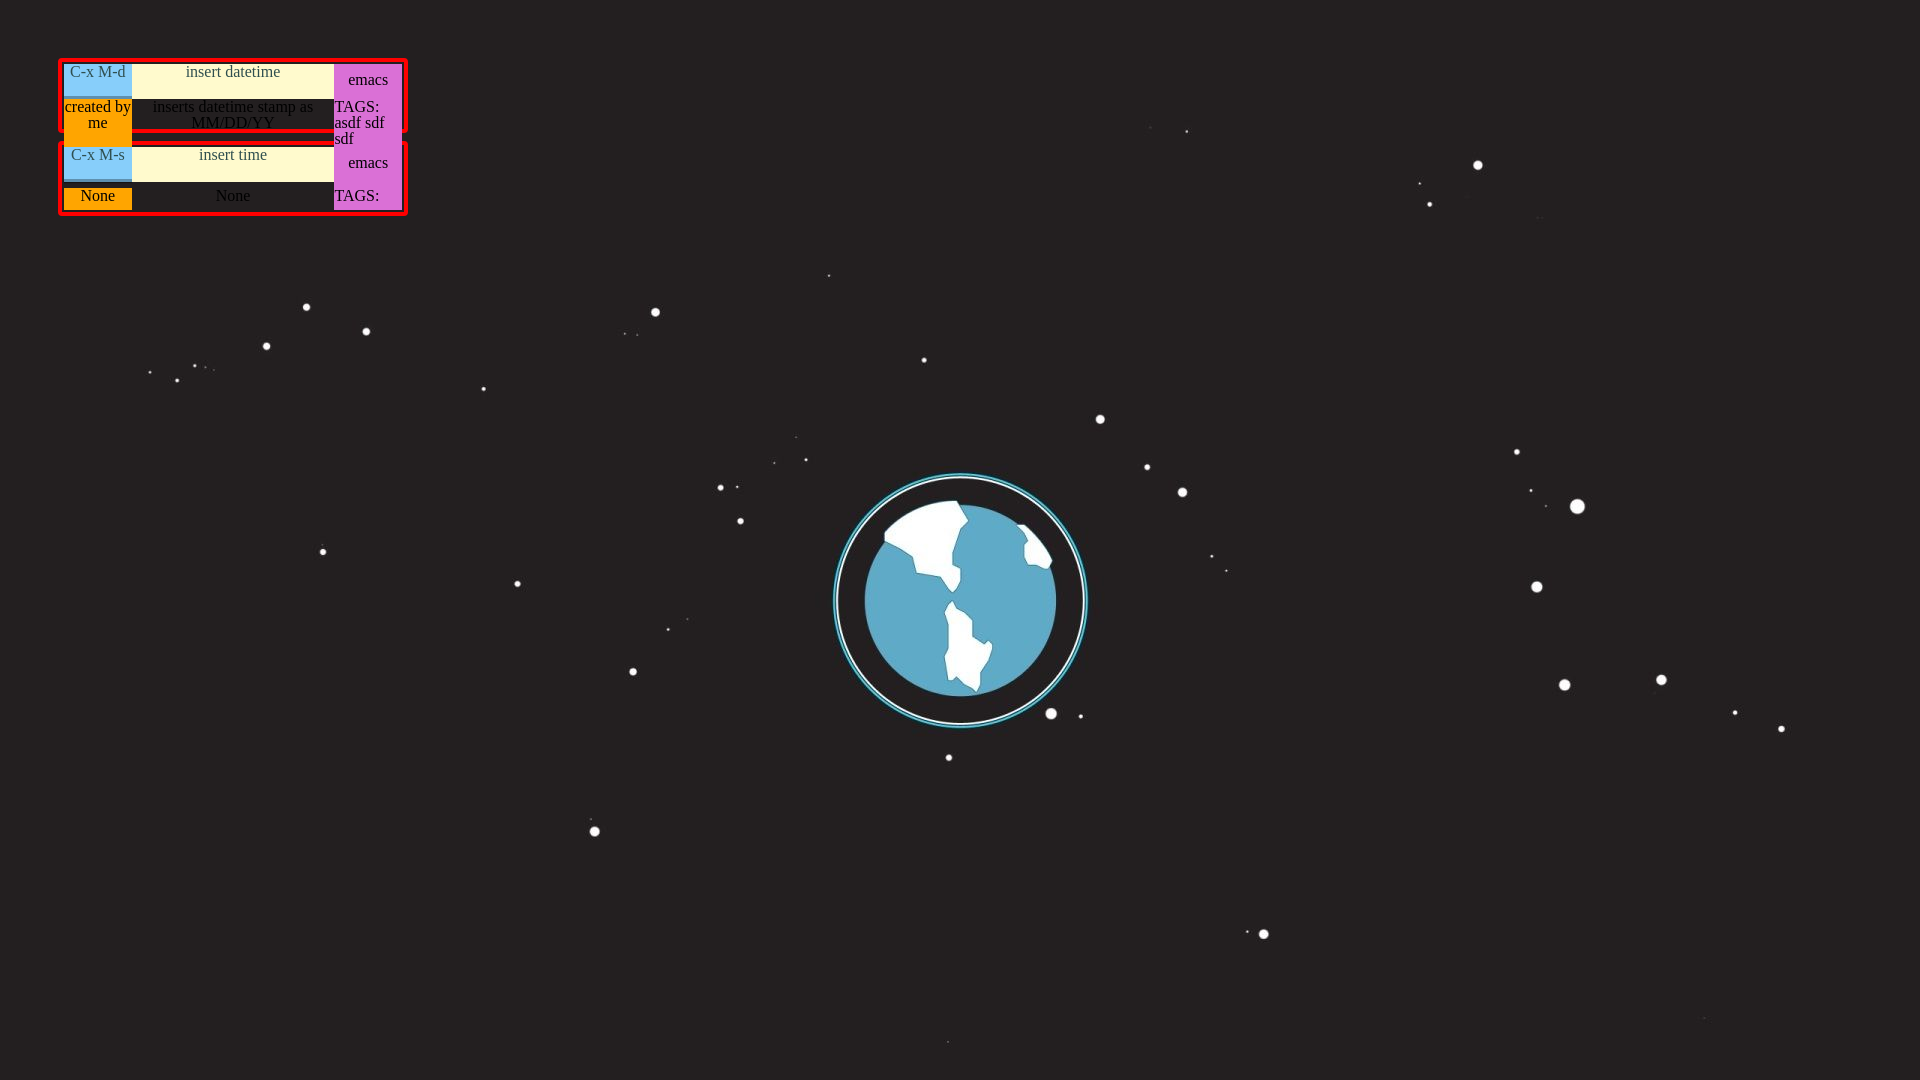
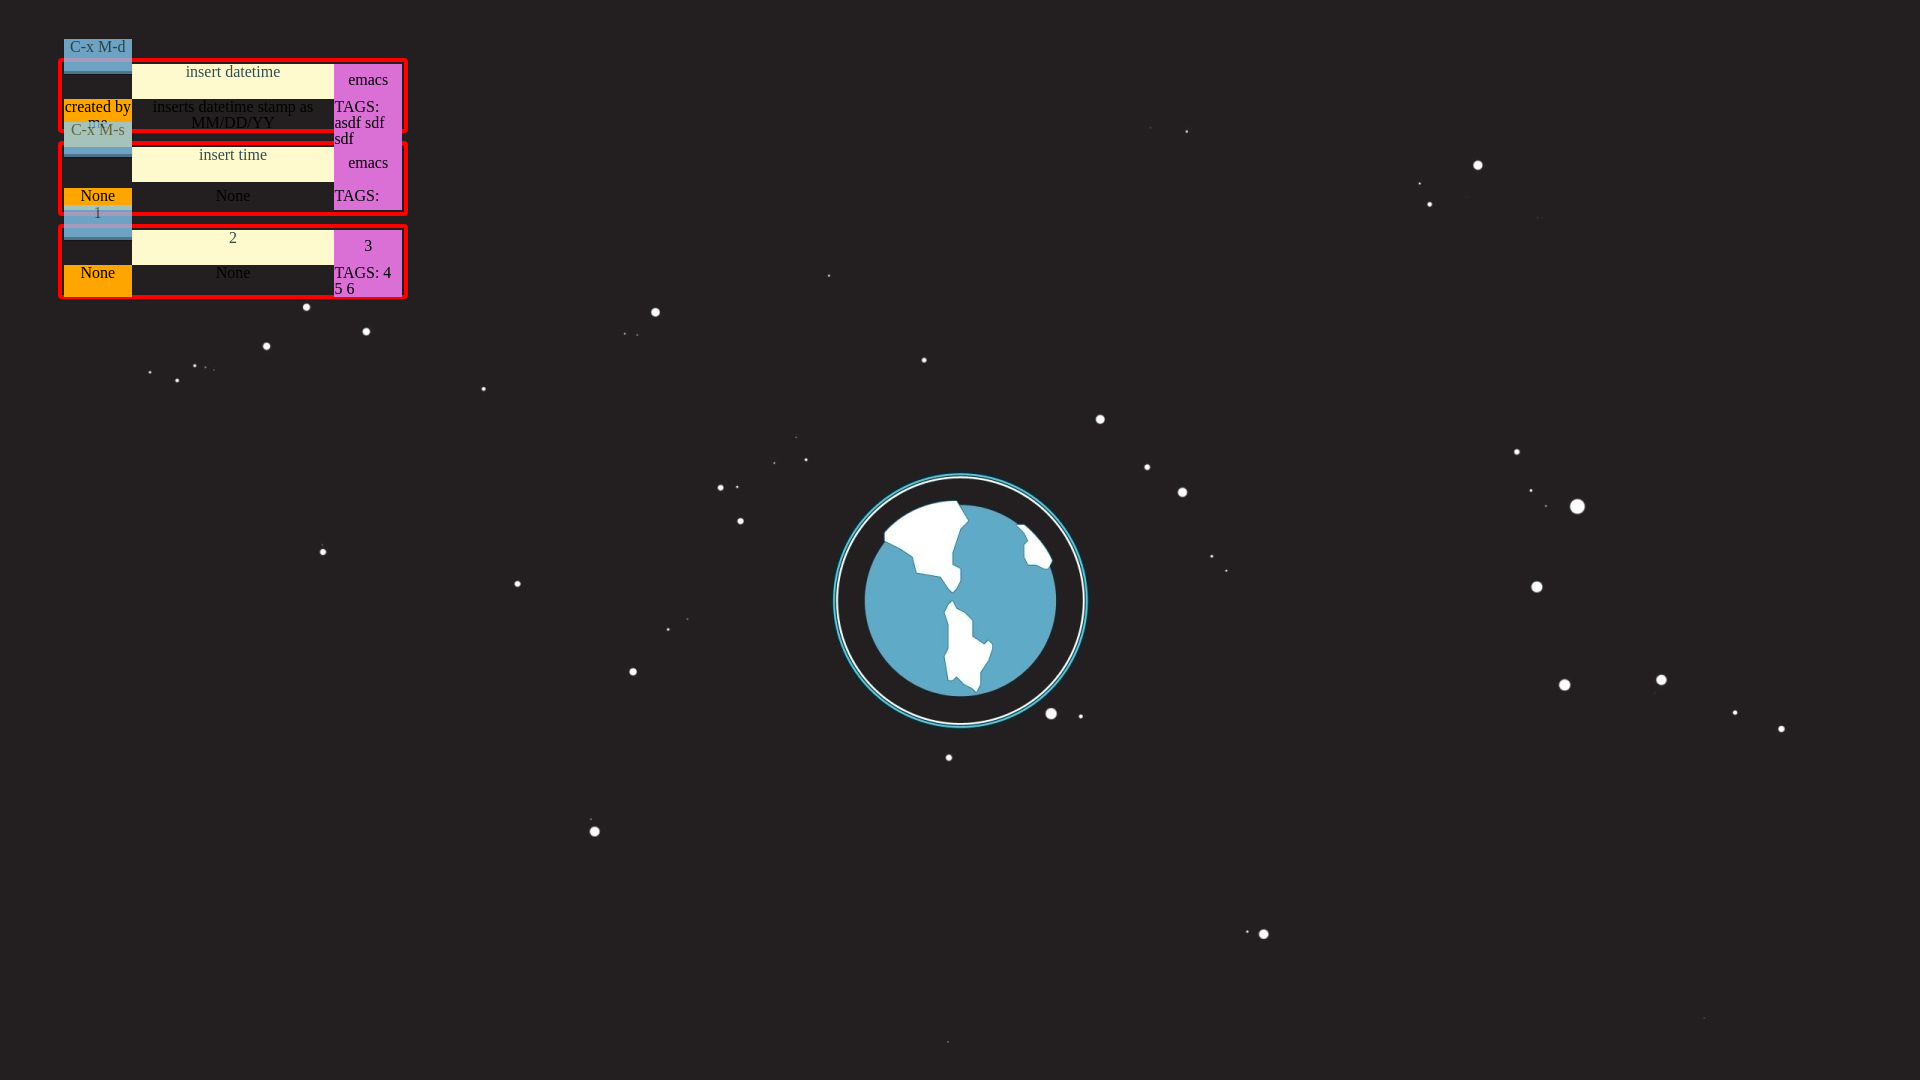
updates to cheet management

Changed region(s): [[0.0312, 0.0306, 0.2188, 0.275]]

diff --git a/cs_final.html b/cs_final.html
@@ -37,6 +37,24 @@
 		</ul>
 	    </div>
 	    
+	    <div class="cheat">
+		<kbd class="cheat-keybind">1</kbd>
+		<p class="cheat-action">2</p>
+		<p class="cheat-context">3</p>
+		<p class="cheat-note">None</p>
+		<p class="cheat-desc">None</p>
+		<ul class="cheat-tag-list">
+		    <li class="cheat-tag-item">TAGS:</li>
+		    
+		    <li class="cheat-tag-item">4</li>
+		    
+		    <li class="cheat-tag-item">5</li>
+		    
+		    <li class="cheat-tag-item">6</li>
+		    
+		</ul>
+	    </div>
+	    
 	</div>
     </body>
 </html>

diff --git a/styles.css b/styles.css
@@ -33,7 +33,11 @@ kbd {
 }
 
 .cheat-keybind {
+    position: relative;
+    top: -25px;
+    left: 0px;
     height: 35px;
+    opacity: .75;
     align-content: center;
     background-color: lightskyblue;
     color: darkslategrey;

diff --git a/cheet.py b/cheet.py
@@ -1,16 +1,7 @@
-"""Cheet
-
- Cheet is a simplified interface for creating cheat sheets
- in a modular fashion.  It is designed to be extensible
- and minimally invasive to your time and attention.
- Cheet.py creates a keybinding and saves it in keybinds.json.
- Other parts of this package use that data to compile
- prettified, sorted, formatted cheat sheets tailored
- to your specific use.
-
-
+"""
 Usage: 
-  python3 cheet.py KEYBIND ACTION CONTEXT [options] [TAGS ...]
+  cheet.py KEYBIND ACTION CONTEXT [-d DESCRIPTION] [-n NOTE] [TAGS ...]
+  cheet.py rm KEYBIND
 
 Arguments:
   KEYBIND     The keybinding to save.
@@ -22,25 +13,49 @@ Options:
   -h --help        Show this screen
   -d DESCRIPTION   Describe what this keybind does, if the action is not descriptive.
   -n NOTE          Notes regarding use, if applicable.
-  -D               Do not compile.  Use this if compiling using non-default settings.
 
+ Cheet is a simplified interface for creating cheat sheets
+ in a modular fashion.  It is designed to be extensible
+ and minimally invasive to your time and attention.
+ Cheet.py creates a keybinding and saves it in keybinds.json.
+ Other parts of this package use that data to compile
+ prettified, sorted, formatted cheat sheets tailored
+ to your specific use.
 
 """ 
 import json
 import docopt
 
-def trim_args(args):
-    del args["--help"]
-    del args["-D"]
-    args["NOTE"] = args.pop("-n")
-    args["DESC"] = args.pop("-d")
-    return args
+def extract_kb(args):
+    name = args['KEYBIND']
+    kb = {
+        'description': args['-d'],
+        'note' : args['-n'],
+        'tags' : args['TAGS'],
+    }
+    context = args['CONTEXT']
+    return (context, name, kb)
+
+def add_to_store(store, kb):
+    if kb[0] not in store:
+        store[kb[0]] = {}
+    if kb[1] in store[kb[0]]:
+        ow = input("%s exists in context %s. overwrite? (y/n):" % (kb[1], kb[0]))
+        while ow not in ("Y","y","N","n"):
+            print("bad input. please input Y, y, N or n.")
+            ow = input("%s exists in context %s. overwrite? (y/n):" % (kb[1], kb[0]))
+        if ow in ("y" , "Y"):
+            store[kb[0]][kb[1]] = kb[2]
+            print("stored: %s \nin context: %s" % (kb[1], kb[0]))
+    else:
+        store[kb[0]][kb[1]] = kb[2]
+        print("stored: %s \nin context: %s" % (kb[1], kb[0]))
 
 def main():
     args = docopt.docopt(__doc__, version="Cheet 0.1")
-    keybind = trim_args(args)
+    keybind = extract_kb(args)
     keybind_list = json.load(open("keybinds.json", "r"))
-    keybind_list.append(keybind)
+    add_to_store(keybind_list, keybind)
     json.dump(keybind_list, open("keybinds.json", "w"))
     return 1
 

diff --git a/test.py b/test.py
@@ -1,0 +1,24 @@
+
+
+
+
+if __name__ == "__main__":
+    k = {}
+    l = []
+    k['1'] = {1: 'a', 2: 'b', 3: 'c'}
+    k['2'] = {1: 'a', 2: 'b', 3: 'c'}
+    print(k)
+    k['1'] = {"blarg": "none"}
+    print(k)
+    for i in k:
+        print(k[i]) 
+
+# {
+#     'context': {
+#         'keybind' : {...data},
+#         'otherkeybind' : {...data},
+#     },
+#     "other context" :  {
+#         ...keybinds
+#     }
+# }
